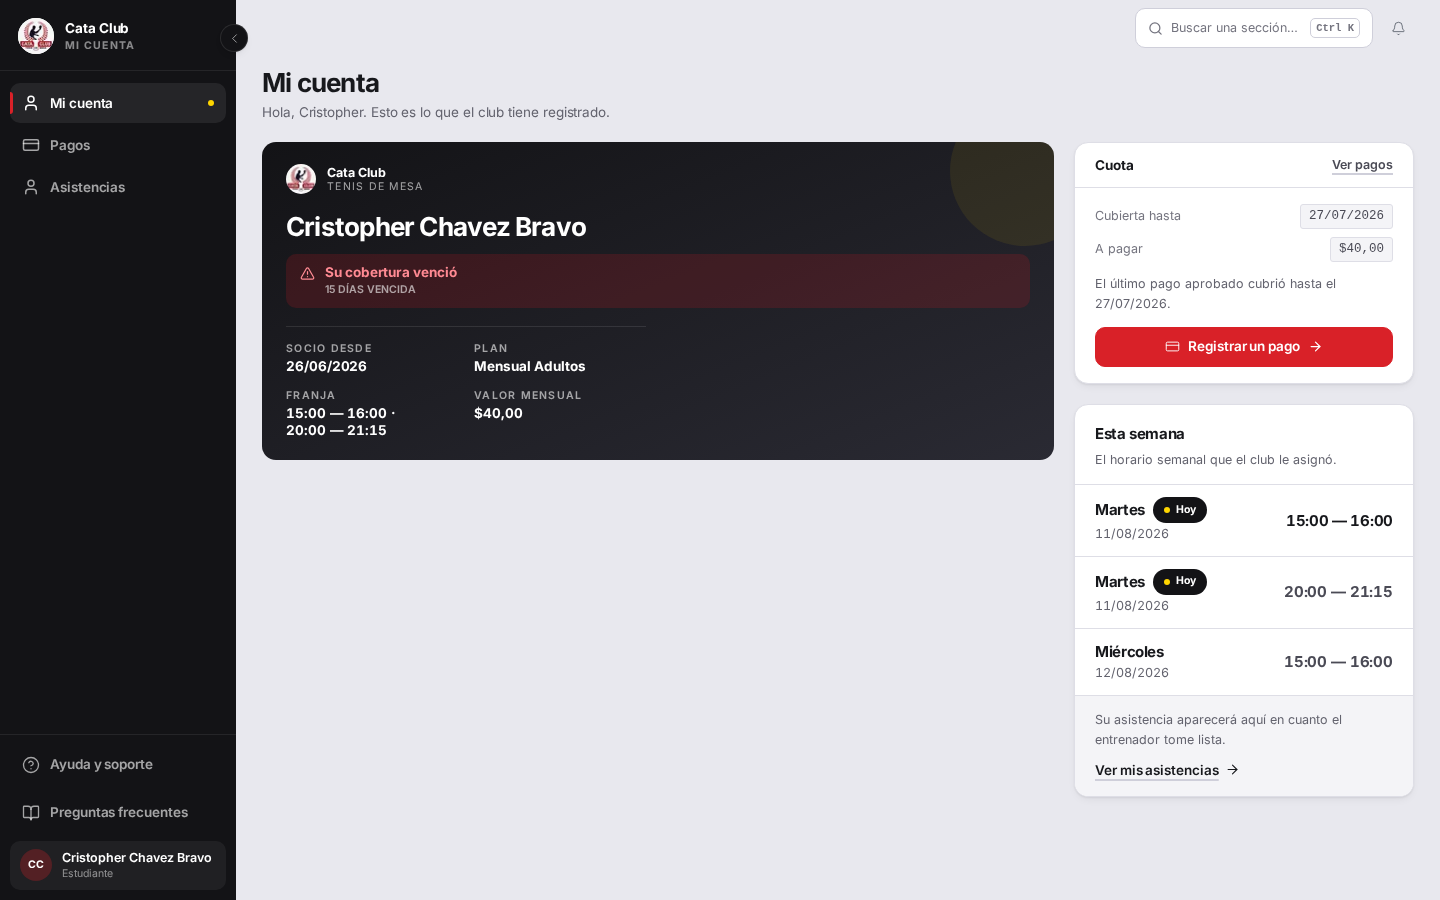
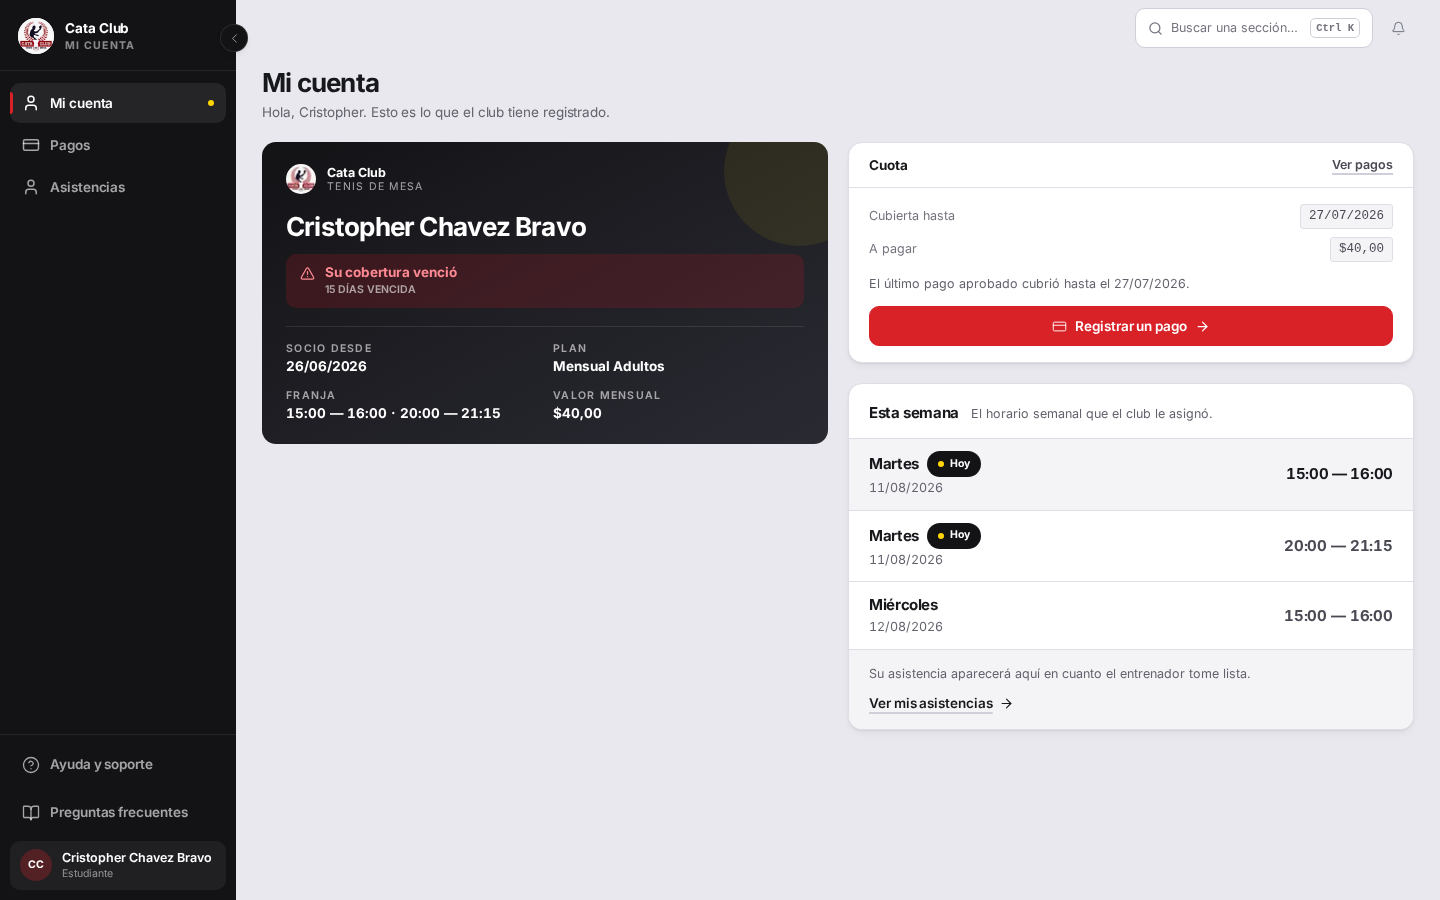
docs(fixes): document the maquette-matching correction (12c)
Records the element-by-element comparison against Propuesta 2's actual
HTML/CSS, the three differences it found and fixed (column ratio, the
next-session row highlight, the carnet fact grid's stale width cap),
and the differences kept on purpose with their own written reason.
Replaces the 12b screenshots with the new even-column captures.

diff --git a/docs/fixes/12-mi-cuenta-carnet.md b/docs/fixes/12-mi-cuenta-carnet.md
@@ -13,6 +13,9 @@
   - `6391768` — fix(student): stop the carnet from stretching and the franja splitting
     (corrección 12b, ver más abajo — dos defectos visuales encontrados revisando
     la implementación contra capturas reales)
+  - `17d143b` — fix(student): match the carnet screen to the chosen maquette's layout
+    (corrección 12c, ver más abajo — la maqueta es la especificación, no una
+    referencia a interpretar)
 
 ## El problema
 
@@ -110,6 +113,70 @@ vez), así que había que resolverlo. Cada horario ahora vive en su propio
 `<span className="whitespace-nowrap">`; el único punto donde el navegador
 puede cortar la línea es el " · " entre dos horarios, nunca adentro de uno.
 
+## Corrección 12c — la maqueta es la especificación, no una referencia
+
+Después de 12b, el dueño la miró contra el prototipo y dijo lo que las dos
+pasadas anteriores no habían hecho: *«pero fijate en el prototipo, si decido
+eso, pues debería verse igual»*. Tenía razón — las dos correcciones previas
+habían arreglado síntomas (el estirado, el wrap de la franja) sin volver a
+mirar la maqueta que se había elegido, y el hueco que perseguían era, en el
+fondo, un problema de proporción que ninguna de las dos tocó.
+
+Comparando el HTML/CSS real de la maqueta (Propuesta 2) contra la
+implementación, elemento por elemento:
+
+1. **Las columnas.** La maqueta dibuja el split de escritorio como
+   `grid-template-columns: 1fr 1fr` — parejas. La implementación reusaba el
+   riel de 340px de `PAGE_RAIL` sin modificar, dejando el carnet en unos tres
+   cuartos del ancho de la fila y el riel en un cuarto. Esta es la causa real
+   del hueco perseguido en fix 12 y 12b: con el carnet tres veces más ancho
+   que lo que su grilla de cuatro datos necesita, cualquier ajuste de altura
+   solo movía el vacío de lugar (adentro del carnet en 12, debajo en la
+   versión sin estirar). **Corregido**: un override local sobre `PAGE_RAIL`
+   (`lg:!grid-cols-[minmax(0,1fr)_minmax(0,1fr)]`, el mismo mecanismo de
+   `!important` que 12b ya usó y luego retiró para el estirado — la técnica
+   estaba bien, esa aplicación no).
+2. **La fila del próximo entrenamiento.** La maqueta la resalta con un fondo
+   distinto (`.row.next`). La implementación solo la distinguía con la
+   insignia «Hoy», que no es lo mismo: solo aparece cuando esa sesión cae en
+   el día de hoy, no cuando es simplemente la más próxima de la semana.
+   **Corregido**: la primera fila (la más próxima, sea o no «hoy») ahora
+   lleva `bg-sunken`. La insignia «Hoy» se mantiene además — es un dato real
+   que la maqueta no contradice, solo no alcanza a distinguir la fila por sí
+   sola.
+3. **La grilla de datos del carnet.** La maqueta la dibuja al ancho completo
+   de la tarjeta. La implementación la limitaba a `sm:max-w-[360px]`, una
+   medida heredada de cuando el carnet era la columna "ancha" de ~1000px de
+   fix 12. Con las columnas ya parejas (~660px cada una), ese límite dejaba
+   una franja vacía a la derecha **adentro** del propio carnet — el mismo
+   defecto que 12b ya había cerrado una vez (el vacío interno), mudado de
+   lugar otra vez. **Corregido**: se quitó el límite.
+
+### Diferencias evaluadas y mantenidas a propósito
+
+- **La banda de estado que cambia de peso** (franja completa con ícono para
+  urgente/neutral, píldora chica solo para «al día») en vez de la píldora
+  `.chip` fija que la maqueta usa para todos los casos: no es un olvido, es
+  la decisión ya documentada arriba en "El problema anotado en la maqueta" —
+  resuelve el propio costo que la maqueta anota («pesa mucho cuando no hay
+  nada que resolver»), aprobada como parte de la implementación original.
+- **El espaciado entre bloques** (`gap-page`, 20px) en vez de los 12px del
+  boceto: son los tokens de espaciado del sistema de diseño del proyecto
+  (documentados en `layout.ts`), no un pixel suelto de la maqueta — cae bajo
+  la misma excepción que ya cubre colores y tipografía.
+- **La frase de resumen de asistencia** al pie de «Esta semana» («asistió a
+  X de N sesiones» + el enlace «Ver mis asistencias»): la maqueta de
+  Propuesta 2 no la dibuja (solo pone un enlace «Asistencias» en el título de
+  la tarjeta), pero es un dato real que la pantalla ya mostraba antes de esta
+  corrección, y la maqueta no lo prohíbe — no es el defecto que se está
+  corrigiendo acá, así que se dejó como estaba.
+
+*(Un encargo intermedio de esta misma corrección había pedido agregar una
+tarjeta de asistencia con una barra debajo del carnet, para llenar el hueco.
+Se retiró antes de implementarla al identificar que el hueco era la
+proporción de columnas, no la falta de contenido — la maqueta elegida no
+dibuja esa tarjeta, así que no se agregó.)*
+
 ## El candado
 
 `StudentPage — the carnet earns its space when the cuota is up to date` en
@@ -148,6 +215,30 @@ ambos estados, el test se pone rojo.
       Tests  39 passed (39)
 ```
 
+**Candados de la corrección 12c**, mismo archivo:
+
+- `StudentPage — the carnet and the rail split the row evenly > matches the
+  chosen maquette's 1fr/1fr desktop grid instead of a 340px rail` — la fila
+  que contiene el carnet lleva el override `lg:!grid-cols-[minmax(0,1fr)_minmax(0,1fr)]`.
+  Si alguien lo retira y vuelve al riel de 340px, el test se pone rojo.
+- `StudentPage — próximos entrenamientos > highlights the nearest session's
+  row instead of only badging it 'Hoy'` — la primera fila de "Esta semana"
+  (la más próxima) lleva `bg-sunken`; las siguientes no. Corre con la hora
+  real del sistema, sin `Date` simulado, para probar que el resaltado sigue
+  la posición y no una coincidencia de fecha.
+- `StudentPage — the club membership card (carnet) > lets the facts grid
+  fill the carnet's real width instead of capping at the old wide-column
+  measure` — la grilla de datos ya no lleva `sm:max-w-[360px]`.
+
+```
+✓ StudentPage — the club membership card (carnet) > lets the facts grid fill the carnet's real width instead of capping at the old wide-column measure
+✓ StudentPage — próximos entrenamientos > highlights the nearest session's row instead of only badging it 'Hoy'
+✓ StudentPage — the carnet and the rail split the row evenly > matches the chosen maquette's 1fr/1fr desktop grid instead of a 340px rail
+
+ Test Files  1 passed (1)
+      Tests  42 passed (42)
+```
+
 ## La prueba
 
 ![después — cuota vencida](img/12-mi-cuenta-despues-vencida-1440x900.png)
@@ -155,17 +246,31 @@ ambos estados, el test se pone rojo.
 ![después — cuota vencida, teléfono](img/12-mi-cuenta-despues-vencida-390x844.png)
 ![después — al día, teléfono](img/12-mi-cuenta-despues-al-dia-390x844.png)
 
-Las cuatro capturas son de la corrección 12b, sacadas contra un backend
+Las cuatro capturas son de la corrección 12c, sacadas contra un backend
 propio levantado desde este worktree apuntando a la base de QA compartida
-(ver la nota al final). Reemplazan a las de la pasada anterior, que mostraban
-el defecto que esta corrección cierra.
+(ver la nota al final). Reemplazan a las de 12b, que mostraban el carnet a
+tres cuartos del ancho de la fila.
 
-Lo que se ve ahora: el carnet termina justo debajo de su grid de datos —
-altura natural, sin canvas vacío adentro — y en «cuota vencida» la «Franja»
-con dos horarios (15:00 — 16:00 y 20:00 — 21:15) envuelve entre un horario y
-el otro, nunca partiendo un horario por la mitad. La banda sigue cambiando de
-peso según haya algo que resolver, y en «al día» la tarjeta Cuota se
-mantiene comprimida a una línea.
+Lo que se ve ahora, comparado contra la maqueta: el carnet y la columna
+derecha (Cuota + Esta semana) miden prácticamente lo mismo de ancho — en
+1440px, ambos rondan los 565px, dejando un margen de menos de 10px entre sí
+y el mismo margen respecto de los bordes del área de contenido. La grilla de
+cuatro datos del carnet («Socio desde / Plan / Franja / Valor mensual») ya no
+deja una franja vacía a la derecha: llena el ancho de la tarjeta en dos
+columnas parejas, igual que `.carnet .grid` en la maqueta. En «cuota
+vencida», la fila «Martes · Hoy · 15:00 — 16:00» (la más próxima) tiene un
+fondo gris claro que la distingue de las dos filas siguientes — el mismo
+resalte que `.row.next` usa en la maqueta. La «Franja» con dos horarios
+(15:00 — 16:00 y 20:00 — 21:15) sigue envolviendo entre un horario y el
+otro, nunca partiendo uno por la mitad (candado de 12b, intacto). La banda
+sigue cambiando de peso según haya algo que resolver, y en «al día» la
+tarjeta Cuota se mantiene comprimida a una línea.
+
+Debajo del carnet queda un margen de página normal cuando la columna derecha
+es más alta (el caso «al día», donde el carnet es más corto sin la banda
+completa) — canvas de página, sin borde propio, del mismo tipo que cualquier
+columna corta deja (ver `PAGE_RAIL`, `layout.ts`), no el hueco con borde que
+esta corrección existe para cerrar.
 
 *(Las capturas "representante con 4 hijos" y "alumna autogestionada" de la
 pasada anterior no se regeneraron — no estaban en el alcance de esta
@@ -230,3 +335,8 @@ en `route.ts`), y lo revertí antes de terminar — `git diff` contra
 `origin/main` en ese archivo da vacío. No lo dejé en la rama porque es
 exactamente el archivo que `fix/rendimiento` está tocando; avisé en vez de
 resolverlo.
+
+La corrección 12c repitió el mismo parche local, sin commitear, para sacar
+sus propias cuatro capturas contra el mismo backend de QA — el bug sigue sin
+tocar la rama que lo va a resolver, y `git diff` contra `origin/main` en
+`route.ts` vuelve a dar vacío al terminar.
